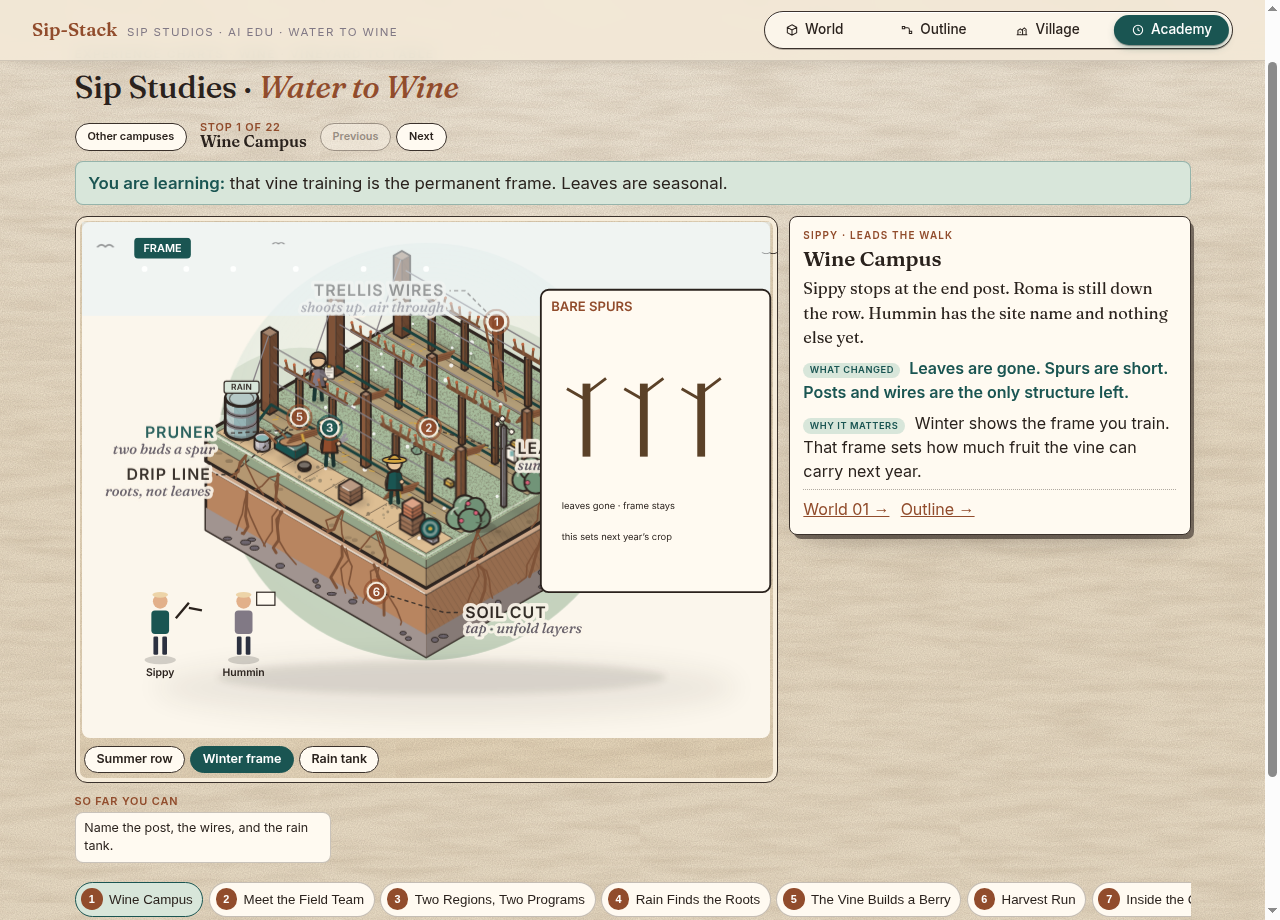
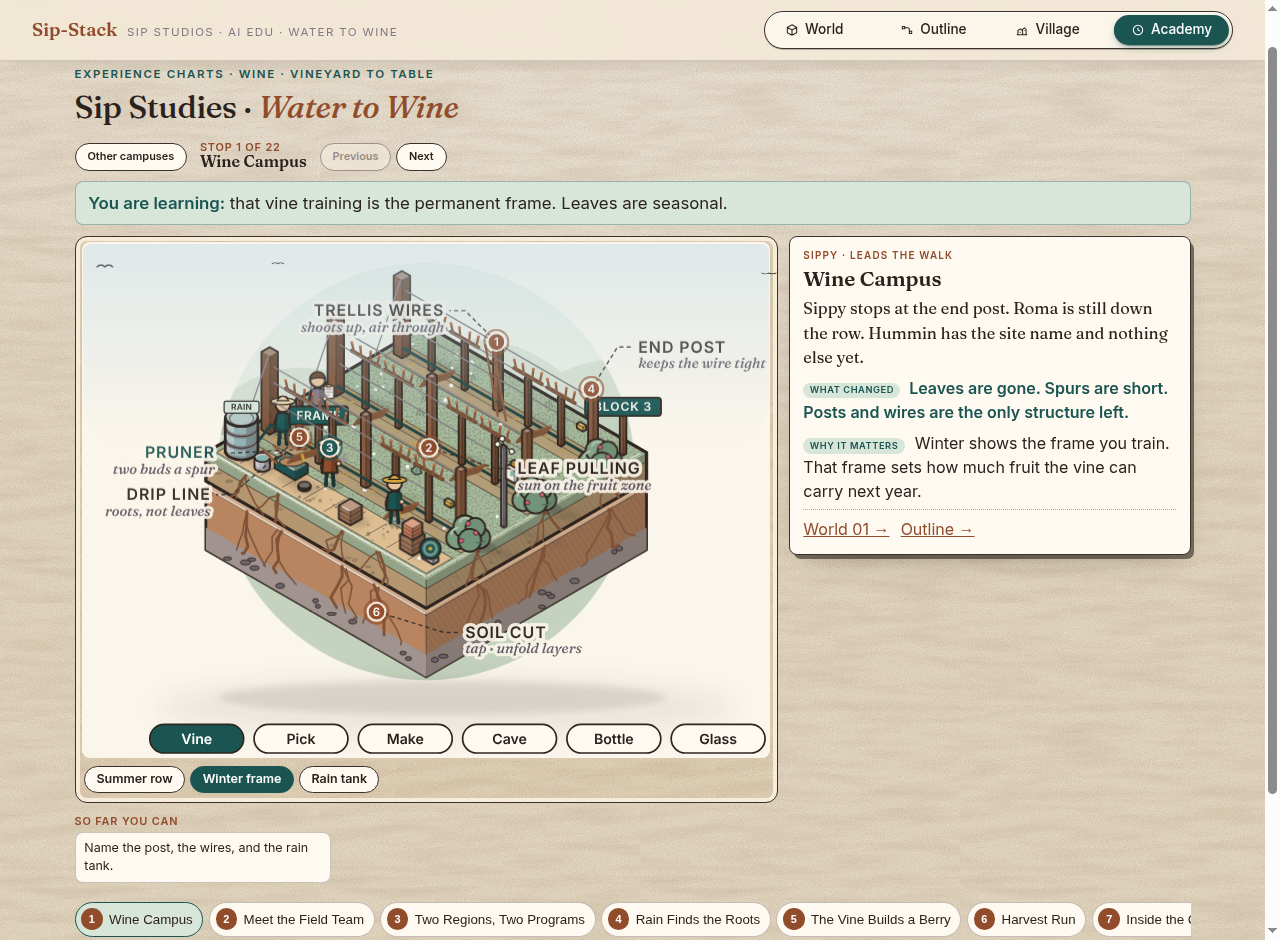
Draw academy story inside the isometric scene.
Guides, tools, and lesson props now use the World kit, with shadows and the same line work. A vine-to-glass path sits on the board. The flat cutaway cards are gone, and World cards stay free of these layers.

diff --git a/docs/assets/sip-world.js b/docs/assets/sip-world.js
@@ -1350,12 +1350,108 @@ export const TOGGLES = {
   ],
 };
 
+/* Academy-only props. World calls sceneSVG without `story`, so these never appear on World cards. */
+function gWrap(item) {
+  return { d: item.d, s: `<g class="ac-iso">${item.s}</g>` };
+}
+function guide(x, y, shirt, hat) {
+  return gWrap(figure(x, y, shirt, { hat: hat || PAL.sand }));
+}
+function shears(x, y) {
+  return [
+    gWrap(line3([x, y, 0.85], [x + 0.42, y + 0.12, 1.2], 0.9, LINE)),
+    gWrap(line3([x + 0.02, y, 0.85], [x + 0.34, y - 0.16, 1.2], 0.9, LINE)),
+  ];
+}
+function caneBundle(x, y) {
+  return [0, 1, 2, 3].map(i => gWrap(box(x + i * 0.07, y, 0.02, 0.05, 0.62, 0.05, i % 2 ? PAL.wood : light(PAL.wood, .2), { thin: true })));
+}
+function pathSVG(stage) {
+  const names = ['Vine', 'Pick', 'Make', 'Cave', 'Bottle', 'Glass'];
+  return `<g class="ac-path" pointer-events="none">${names.map((n, i) => {
+    const x = 14 + i * 40, on = i === stage;
+    return `<rect x="${x}" y="181" width="36" height="11" rx="5.5" fill="${on ? '#1A5552' : '#fffaf1'}" stroke="#2e2520" stroke-width=".65"/><text x="${x + 18}" y="188.6" text-anchor="middle" font-size="5.4" font-weight="700" fill="${on ? '#fff' : '#2a221d'}" font-family="Inter, sans-serif">${n}</text>`;
+  }).join('')}</g>`;
+}
+function storyStage(key) {
+  const id = key.split(':').find(p => p !== 'dive') || '';
+  if (['campus', 'team', 'regions', 'rain', 'berry'].includes(id)) return 0;
+  if (id === 'harvest') return 1;
+  if (['crush', 'ferment', 'crossroads'].includes(id)) return 2;
+  if (['lab', 'barrels', 'bench', 'finish'].includes(id)) return 3;
+  if (['give', 'bottle', 'passport', 'journey'].includes(id)) return 4;
+  return 5;
+}
+function academyProps(story) {
+  const dive = story.startsWith('dive:');
+  const parts = story.split(':').filter(p => p !== 'dive');
+  const stop = parts[0];
+  const beat = parts[1] || '';
+  const hi = [];
+  const lo = [];
+  const sippy = (x, y) => guide(x, y, PAL.teal, PAL.sand);
+  const roma = (x, y) => guide(x, y, PAL.clay, PAL.cream);
+  const hummin = (x, y) => guide(x, y, PAL.mauve, PAL.mauve);
+  if (stop === 'campus' && beat === 'frame') {
+    hi.push(sippy(1.15, 6.35), ...shears(1.45, 6.15), ...caneBundle(0.35, 6.7), gWrap(sign(2.3, 6.2, 'FRAME')));
+  } else if (stop === 'campus' && beat === 'tank') {
+    hi.push(hummin(1.1, 6.5), gWrap(cyl(6.55, 6.15, 0, 0.42, 0.78, PAL.steel)), gWrap(cyl(6.55, 6.15, 0.42, 0.36, 0.28, PAL.water)), gWrap(sign(5.9, 5.7, 'ROOF')));
+  } else if (stop === 'campus') {
+    hi.push(sippy(1.05, 6.45), roma(2.15, 6.7), hummin(3.2, 6.4));
+  } else if (stop === 'team') {
+    hi.push(sippy(1.2, 6.4), roma(2.4, 6.65), hummin(3.5, 6.35));
+    if (beat === 'on') hi.push(gWrap(sign(4.4, 6.2, 'ROOTS')));
+    if (beat === 'leaf') hi.push(gWrap(sign(4.6, 5.4, 'LEAVES')));
+  } else if (stop === 'rain' || (dive && (beat === 'drip' || beat === 'soil' || beat === 'leaf' || beat === 'save' || beat === 'cloud'))) {
+    hi.push(hummin(1.0, 6.45), sippy(2.15, 6.6), gWrap(box(5.7, 6.3, 0, 0.08, 0.08, 0.85, PAL.steel, { thin: true })), gWrap(box(5.5, 6.22, 0.82, 0.48, 0.08, 0.06, PAL.clay)));
+    for (let i = 0; i < (dive ? 5 : 3); i++) lo.push(gWrap(cyl(2.2 + i * 0.7, 5.4, -0.15, 0.22, 0.06, beat === 'shut' ? PAL.sand : PAL.water)));
+    if (dive) lo.push(gWrap(sign(1.2, 5.2, 'BULB')), gWrap(sign(4.8, 5.0, 'ROCK')));
+  } else if (stop === 'berry' && dive) {
+    lo.push(roma(3.3, 4.6), gWrap(box(4.05, 4.15, -0.2, 0.28, 0.28, 1.15, dark(PAL.wood, .25))), gWrap(box(3.92, 4.02, 0.9, 0.54, 0.54, 0.14, PAL.clay)), gWrap(box(4.12, 4.22, 1.04, 0.16, 0.16, 0.95, PAL.wood, { thin: true })), gWrap(sign(2.7, 4.0, 'ROOT')), gWrap(sign(5.05, 4.35, 'SCION')));
+  } else if (stop === 'berry') {
+    const fat = beat === 'thick' || beat === 'vinifera';
+    hi.push(roma(1.15, 6.55), hummin(2.35, 6.85), gWrap(cluster(3.5, 6.55, 0.15, fat ? PAL.red : light(PAL.red, .35), fat ? 2.35 : 1.15)), gWrap(sign(4.5, 6.15, fat ? 'THICK' : 'THIN')));
+  } else if (stop === 'harvest') {
+    hi.push(sippy(1.1, 6.4), roma(2.3, 6.65), hummin(3.4, 6.35), gWrap(crate(5.5, 6.1, 0, 0.62)), gWrap(cluster(5.7, 6.25, 0.62, beat === 'early' ? PAL.sage : PAL.red, 1.15)));
+    if (beat === 'early' || beat === 'crew') hi.push(gWrap(lamp(6.6, 5.6)), gWrap(sign(4.6, 6.0, 'ACID')));
+    if (beat === 'ripe') hi.push(gWrap(sign(4.6, 6.0, 'BODY')));
+  } else if (stop === 'ferment') {
+    hi.push(roma(1.3, 6.3), sippy(2.5, 6.55), ...shears(2.7, 6.2), gWrap(sign(3.6, 6.1, 'CAP')));
+  } else if (stop === 'crossroads') {
+    hi.push(sippy(0.8, 6.5), gWrap(sign(2.2, 6.2, (beat || 'DOOR').slice(0, 6).toUpperCase())));
+  } else if (stop === 'crush') {
+    hi.push(sippy(1.1, 6.4), hummin(2.4, 6.6), gWrap(crate(4.8, 6.2, 0, 0.5)), gWrap(sign(5.6, 6.0, 'SORT')));
+  } else if ((dive && (beat === 'ullage' || beat === 'time' || beat === 'species' || beat === 'toast' || beat === 'care')) || (stop === 'barrels' && (beat === 'year' || beat === 'taste'))) {
+    hi.push(hummin(0.85, 6.55), gWrap(hbarrel(1.7, 6.15, 0, 0.52, 1.25, PAL.wood, { chalk: true })), gWrap(cyl(3.5, 6.55, 0, 0.18, 0.48, PAL.clay)), gWrap(sign(3.9, 6.15, 'TOP UP')));
+    if (dive) hi.push(gWrap(cyl(5.15, 6.35, 0, 0.36, 0.62, PAL.red)), gWrap(cyl(5.15, 6.35, 0.62, 0.36, 0.22, PAL.cream)), gWrap(sign(5.85, 5.9, 'GAP')));
+  } else if (stop === 'barrels' || stop === 'bench') {
+    hi.push(hummin(1.1, 6.4), sippy(2.3, 6.6), gWrap(hbarrel(4.2, 5.6, 0, 0.4, 1.05, PAL.wood, { chalk: beat === 'marks' || beat === 'smell' })));
+  } else if (stop === 'lab' || stop === 'finish' || dive) {
+    hi.push(roma(1.2, 6.35), hummin(2.5, 6.6), gWrap(box(4.4, 6.0, 0, 1.6, 0.7, 0.45, PAL.wood, { planks: 2 })));
+    for (let i = 0; i < (dive ? 3 : 2); i++) hi.push(gWrap(cyl(4.6 + i * 0.42, 6.15, 0.45, 0.1, 0.28, i === 1 ? PAL.red : PAL.cream)));
+    if (dive) hi.push(gWrap(sign(6.2, 5.8, 'LOT')));
+  } else if (stop === 'handoff' || stop === 'sip') {
+    hi.push(sippy(1.2, 6.4), roma(2.5, 6.6), gWrap(sign(3.8, 6.1, beat === 'water' || stop === 'handoff' ? 'WATER' : 'SIP')));
+  } else {
+    hi.push(sippy(1.2, 6.45), roma(2.5, 6.65));
+  }
+  return { hi, lo };
+}
+
 const CAM = { '01': { U: 12.2, OY: 28 }, '05': { U: 12.2, OY: 30 }, '08': { U: 12.2, OY: 30 } };
-export function sceneSVG(id, { labels = true, title = '' } = {}) {
+export function sceneSVG(id, { labels = true, title = '', story = null } = {}) {
   beginScene();
   const cam = CAM[id] || {};
   U = cam.U ?? 14; OY = cam.OY ?? 46;
-  const { it, labels: lb = [], ulabels = [], bg = PAL.mint, under, state, far = 'hills', farC, opts = {} } = SCENES[id]();
+  const built = SCENES[id]();
+  const { labels: lb = [], ulabels = [], bg = PAL.mint, under, state, far = 'hills', farC, opts = {} } = built;
+  const it = built.it;
+  if (story) {
+    const extra = academyProps(story);
+    it.push(...extra.hi);
+    if (extra.lo.length && under) under.it.push(...extra.lo);
+    else it.push(...extra.lo);
+  }
   it.sort((a, b) => a.d - b.d);
   const base = it.filter(i => i.d <= -50), rest = it.filter(i => i.d > -50);
   const [, gy] = P(8, 8, under ? -3.2 : -0.95);
@@ -1377,7 +1473,8 @@ export function sceneSVG(id, { labels = true, title = '' } = {}) {
     lower +
     (under ? `<g class="layer hi" style="--lift:-3px;--open:-${under.open}px">${top}</g>` : top) +
     `<rect class="mood" x="-12" y="-4" width="264" height="198" fill="url(#${CUR.k}m)" pointer-events="none"/>` +
-    (under && labels ? `<g class="labels lo">${ulabels.join('')}</g>` : '') + `</svg>`;  // lower pins stay on top so they remain clickable
+    (under && labels ? `<g class="labels lo">${ulabels.join('')}</g>` : '') +
+    (story ? pathSVG(storyStage(story)) : '') + `</svg>`;  // lower pins stay on top so they remain clickable
   CUR = null; U = 14; OY = 46;
   return out;
 }

diff --git a/docs/assets/sip-academy.js b/docs/assets/sip-academy.js
@@ -2,7 +2,6 @@
 import { sceneSVG, HOTSPOTS } from './sip-world.js';
 import { GUIDES, WINE_STOPS, DIVES } from './sip-depth-data.js';
 import { WINE_LESSON, DIVE_BEATS } from './sip-wine-lesson.js';
-import { storyMarkup } from './sip-academy-layers.js';
 
 const $ = (s, r = document) => r.querySelector(s);
 const $$ = (s, r = document) => [...r.querySelectorAll(s)];
@@ -57,6 +56,14 @@ export function mountAcademy(root) {
   const player = $('.ac-player', root);
   const state = { n: 1, beat: null, dive: null, chart: null };
 
+  function skyOf(beatId, diving) {
+    if (['frame', 'phylloxera'].includes(beatId)) return 'frost';
+    if (['roots', 'shut', 'leaves', 'drip', 'soil', 'tank', 'cloud', 'save', 'leaf', 'on'].includes(beatId)) return 'rain';
+    if (['early', 'crew'].includes(beatId)) return 'dawn';
+    if (diving && ['ullage', 'time', 'species', 'toast', 'care', 'year', 'marks'].includes(beatId)) return 'cellar';
+    if (['year', 'marks', 'smell', 'taste'].includes(beatId)) return 'cellar';
+    return 'day';
+  }
   function lesson(stop) { return WINE_LESSON[stop.id]; }
   function activeBeat(stop) {
     const pack = lesson(stop);
@@ -104,7 +111,7 @@ export function mountAcademy(root) {
       </div>
       <p class="ac-learn"><b>You are learning:</b> ${learn.replace(/^You are learning:?\s*/i, '')}</p>
       <div class="ac-stage-wrap">
-        <div class="ac-stage" data-chart="${chart}" data-dive="${diving ? '1' : '0'}" data-beat="${beat.id}">
+        <div class="ac-stage" data-chart="${chart}" data-dive="${diving ? '1' : '0'}" data-beat="${beat.id}" data-sky="${skyOf(beat.id, diving)}">
           <div class="ac-scene-slot"></div>
           <div class="ac-beats" role="group" aria-label="${diving ? 'Deep dive checks' : 'Scene changes'}">
             ${(diving ? divePack.tabs : pack.beats).map(item => `<button type="button" data-beat="${item.id}" aria-pressed="${item.id === beat.id}">${item.label}</button>`).join('')}
@@ -131,10 +138,9 @@ export function mountAcademy(root) {
       <ol class="ac-rail">${WINE_STOPS.map(s => `<li><button type="button" data-n="${s.n}" aria-current="${s.n === stop.n}"><b>${s.n}</b>${s.title}</button></li>`).join('')}</ol>`;
 
     const slot = $('.ac-scene-slot', player);
-    slot.innerHTML = sceneSVG(chart, { title: stop.title });
+    slot.innerHTML = sceneSVG(chart, { title: stop.title, story: diving ? `dive:${stop.id}:${beat.id}` : `${stop.id}:${beat.id}` });
     const svg = $('svg.scene', slot);
     applyFx(svg, beat.fx);
-    svg.insertAdjacentHTML('beforeend', storyMarkup(stop.id, beat.id, diving));
     if (beat.pin) $(`.tag[data-hs="${beat.pin}"]`, svg)?.classList.add('active');
     player.querySelector(`[data-n="${stop.n}"]`)?.scrollIntoView({ block: 'nearest', inline: 'nearest' });
   }

diff --git a/docs/assets/sip-stack.css b/docs/assets/sip-stack.css
@@ -634,9 +634,19 @@ body.dive-open { overflow: hidden; }
 .ac-stage-wrap { display: grid; grid-template-columns: minmax(0, 1.4fr) minmax(240px, .8fr); gap: .7rem; align-items: start; }
 .ac-stage { position: relative; background: #ecdcbf; background-image: var(--grain), var(--fibers); border: 1.3px solid var(--line); border-radius: 12px; overflow: visible; padding: .35rem .4rem .55rem; box-shadow: inset 0 0 0 4px #f6ecda; }
 .ac-stage .scene { margin: 0; background: #fbf6ec; border-radius: 8px; }
-.ac-over { pointer-events: none; }
-.ac-over text { font-family: var(--sans); }
-.ac-stage[data-dive="1"] .ac-over .plate > rect:first-child { stroke: var(--teal); stroke-width: 1.2; }
+.ac-stage { position: relative; }
+.ac-stage[data-sky="frost"]::after,
+.ac-stage[data-sky="rain"]::after,
+.ac-stage[data-sky="dawn"]::after,
+.ac-stage[data-sky="cellar"]::after {
+  content: ""; position: absolute; left: .45rem; right: .45rem; top: .45rem; height: 46%;
+  pointer-events: none; border-radius: 8px 8px 40% 40%;
+}
+.ac-stage[data-sky="frost"]::after { background: linear-gradient(180deg, rgba(186, 214, 228, .42), transparent 78%); }
+.ac-stage[data-sky="rain"]::after { background: linear-gradient(180deg, rgba(90, 140, 150, .28), transparent 80%); }
+.ac-stage[data-sky="dawn"]::after { background: linear-gradient(180deg, rgba(240, 176, 84, .38), transparent 72%); }
+.ac-stage[data-sky="cellar"]::after { background: linear-gradient(180deg, rgba(48, 40, 52, .2), transparent 70%); }
+.ac-iso .sgn { letter-spacing: .04em; }
 .ac-learn { margin: 0 0 .65rem; padding: .6rem .8rem; background: var(--mint); border: 1px solid rgba(26,85,82,.35); border-radius: 8px; font-size: 1.05rem; line-height: 1.35; }
 .ac-learn b { color: var(--teal); }
 .ac-story { font-family: var(--serif); font-size: 1.02rem; }
